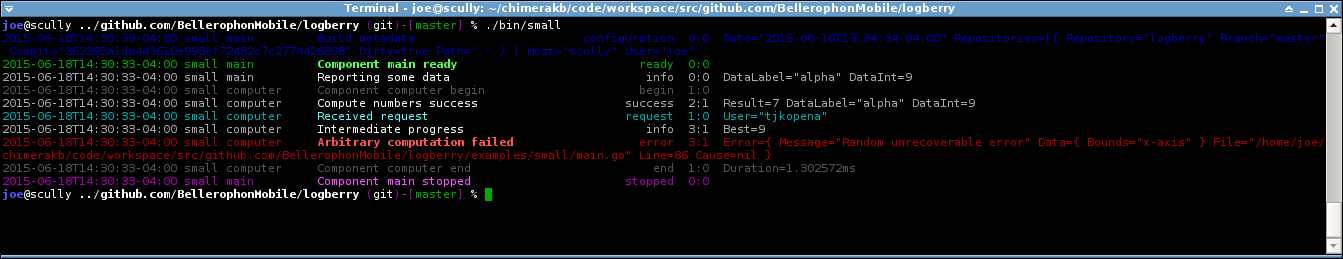
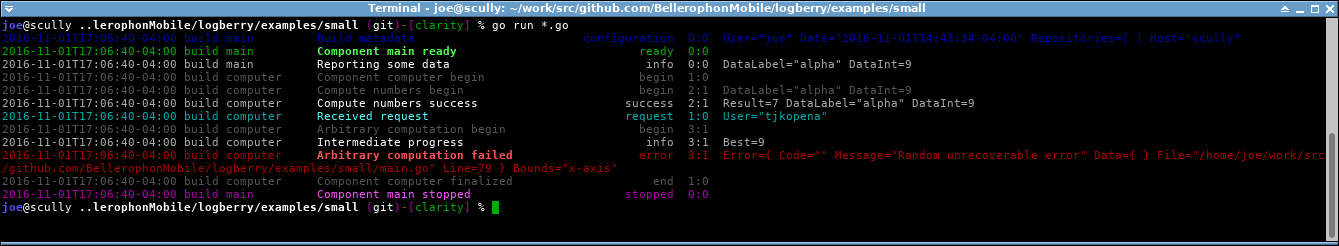
Doc update.

Changed region(s): [[0.0, 0.0, 1.0, 0.9959]]

diff --git a/examples/small/main.go b/examples/small/main.go
@@ -2,7 +2,7 @@ package main
 
 import (
 	"github.com/BellerophonMobile/logberry"
-	//	"os"
+//	"os"
 )
 
 func main() {

diff --git a/docs/concepts.md b/docs/concepts.md
@@ -2,9 +2,9 @@
 
 Logberry has four top level concepts/objects:
 
- * `Root`: An interface between Tasks and OutputDrivers.
+ * `Root`: A consolidation point between Tasks and OutputDrivers.
  * `OutputDriver`: Serializers for publishing events.
- * `Task`: A component, function, or logic that generates events.
+ * `Task`: A component, function, or logic path that generates events.
  * `D`: Data to be published with an event.
 
 Also important are two less fundamental but included concepts/objects:
@@ -17,28 +17,15 @@ Also important are two less fundamental but included concepts/objects:
 
 All logging is coordinated by a Root.  Tasks under a Root generate
 events, which are given to OutputDrivers to actually publish.
+Typically you would only have the default Root in a program.
 
-There are two kinds of Roots:
-
- * ImmediateRoot: Simply dispatches each event to registered outputs.
- * BackgroundRoot: Throws each event into a channel, which may or may
-   not be buffered.  A separate goroutine continually processes events
-   from the channel, dispatching them to registered outputs.
-
-Both serialize incoming events such that only one event is reported at
-a time, in order of first receipt.  From the user's perspective, the
-big difference is that the host program needs to call `Root::Stop()`
-on a BackgroundRoot to ensure that all generated events are output.
-Otherwise it is possible for the background goroutine to not activate
-before the program terminates, leaving events in the buffer.  However,
-that buffering and execution on a separate goroutine can be useful for
-long lived programs using OutputDrivers which may take some time,
-e.g., publishing to a remote log service.
-
-There is a default Root `logberry.Std`, which is an ImmediateRoot so
-that it intuitively outputs all events without any additional calls.
-However, programs need not make any use of this Root, instead
-generating Tasks under custom Roots as described below.
+Generated events are thown into a channel, which may or may not be
+buffered.  A separate goroutine continually processes events from the
+channel in the background, dispatching them to registered outputs.
+The host program needs to call `Root::Stop()` on a BackgroundRoot to
+ensure that all generated events are output.  Otherwise it is possible
+for the background goroutine to not activate before a short running
+program terminates, leaving events in the buffer.
 
 
 ## OutputDriver
@@ -47,7 +34,7 @@ Events are actually recorded, aggregated, or otherwise processed by
 OutputDrivers.  Applications may implement its interface and provide
 their own, but there are two included in Logberry:
 
- * TextOutput: Arguably human readable output, colorized if outputting
+ * TextOutput: Human readable output, colorized if outputting
    to a terminal.
  * JSONOutput: Machine readable JSON formatted output.
 
@@ -144,18 +131,15 @@ also have a human-oriented activity text, e.g., 'Save configuration'
 or 'Connect to database'.
 
 By default Tasks inherit the component tag of their parent and are
-given a text label specifying some focused activity.  They also do not
-log their instantiation, though the `Task::Begin()` function may be
-used to do so.  Tasks created using the Component creator though are
-assigned the given component label, presumably different from that of
-their parent Task.  Their activity text is also generated to identify
-that component, and their instantiation logged.  Termination of the
-component may then be logged using `Task::End()` in addition to the
-error reports.
+given a text label specifying some focused activity.  Tasks created
+using the Component creator though are assigned the given component
+label, presumably different from that of their parent Task.  Their
+activity text is also generated to identify that component.
+Termination of the component may then be logged using
+`Task::Finalized()` or the error reports as needed.
 
 Note, however, that these component Tasks are just regular Task
-objects that apply a few conventions when created.  Component tags and
-activity texts may also be manually set or changed for all Tasks.
+objects that apply a few conventions when created.
 
 
 ### Data
@@ -171,18 +155,12 @@ subsequent log events.  The task might then terminate on success by
 additionally reporting the number of bytes transmitted.
 
 Data to be associated with a Task may be passed to creation functions.
-The `Task::AddData(key, value)` function may also be used to assert
-data as the Task continues.  `Task::AggregateData(key, ...value)` does
-similarly in a slightly more general fashion, following the behavior
-of D objects as described below and in the [API
-GoDocs](https://godoc.org/github.com/BellerophonMobile/logberry).
+The `Task::AddData(data...)` function may also be used to assert data
+as the Task continues.
 
 Event specific data may be included in all of the reporting functions
 outlined in the following.  This data does not aggregate into the Task
 for output in subsequent calls.
-
-Several constants are defined to be used as data keys in order to
-promote common terms, but their use is completely optional.
 
 
 ### Reporting
@@ -204,49 +182,31 @@ A simple example is:
 	computerlog.Event("request", "Received request", req)
 ```
 
-Built on top of this basic function are a variety of common event
-functions:
+Built on top of this are a variety of common event triggers:
 
- * Configuration: Report on program or module initialization.
-   * `BuildMetadata`
-   * `BuildSignature`
-   * `Configuration`
-   * `CommandLine`
-   * `Environment`
-   * `Process`
  * Informational: Report generic data, human messages, or warnings.
    * `Info`
    * `Warning`
  * State: Mark the end of initialization or pause in processing.
    * `Ready`
    * `Stopped`
- * Lifetime: Report the start of components or long-running tasks, and
-   denote their termination state
-   * `Begin`
-   * `End`
+ * Lifetime: Report the termination state of components or tasks.
    * `Success`
    * `Error`
-   * `WrapError`
-   * `Fatal`
    * `Failure`
-   * `Die`
+   * `Finalized`
 
-Details on these and a full up-to-date list may be found in the [API
+There are also functions to report program or module initialization:
+
+   * `BuildMetadataEvent`
+   * `BuildSignatureEvent`
+   * `ConfigurationEvent`
+   * `CommandLineEvent`
+   * `EnvironmentEvent`
+   * `ProcessEvent`
+
+Details on all these functions may be found in the [API
 GoDocs](https://godoc.org/github.com/BellerophonMobile/logberry).
-
-
-### Utilities
-
-Task may additionally be muted (and unmuted).  In this state they will
-produce no log events.  This is useful when using a task simply to
-collect other tasks, or to generate and throw but not directly report
-a structured error message.
-
-Tasks may also be timed, and their duration reported by the
-terminating lifetime events.  To start the clock, invoke
-`Task::Time()`.  To additionally report the instationation, use
-`Task::Begin()`. Components automatically do the latter.  The current
-duration may be fetched using `Task::Clock()`.
 
 ## D
 
@@ -257,33 +217,30 @@ data to the call, which depending on the function is either associated
 to a Task or reported along with a specific event, e.g.:
 
 ```go
-// Task creates a new sub-task of the host task.  Parameter activity
-// should be a short natural language description of the work that the
-// Task represents, without any terminating punctuation.  Any data
-// given will be associated with the Task and reported with its
-// events.  This call does not produce a log event.  Use Begin to
-// indicate the start of a long running task.
+// Task creates a new sub-task.  Parameter activity should be a short
+// natural language description of the work that the Task represents,
+// without any terminating punctuation.  Any data given here will be
+// associated with the Task and reported with all its events.
 func (x *Task) Task(activity string, data ...interface{}) *Task
 
 // Error generates an error log event reporting an unrecoverable fault
-// in an activity or component.  If the Task is being timed it will be
-// clocked and the duration reported.  An error is returned wrapping
-// the original error with a message reporting that the Task's
-// activity has failed.  Continuing to use the Task will not cause an
-// error but is discouraged.  The variadic data parameter is
-// aggregated as a D and reported as data embedded in the generated
-// Task Error.  The data permanently associated with the Task is
-// reported with the event.
-func (x *Task) Error(err error, data ...interface{}) error
+// in an activity or component.  An error is returned wrapping the
+// original error with a message reporting that the Task's activity
+// has failed.  Continuing to use the Task is discouraged.  The
+// variadic data parameter is aggregated as a D and embedded in the
+// generated error.  It and the data permanently associated with the
+// Task is reported with the event.  The reported source code position
+// of the generated task error is adjusted to be the event invocation.
+func (x *Task) Error(err error, data ...interface{}) error {	
 ```
 
-D is just a standard Go map, with its real functionality is several
-functions for constructing instances from arbitrarily typed and
-variadic parameters.  In particular, it will automatically incorporate
-exposed fields of structs and keys of maps as keys of the constructed
-D.  In this way it is very easy to incorporate objects into a log
-event and have the data reported in a structured fashion.  E.g., the
-following log event will have `DataLabel` and `DataInt` fields:
+D is just a standard Go map, with its real functionality in several
+functions for copying instances from arbitrarily typed and variadic
+parameters.  In particular, it will automatically incorporate exposed
+fields of structs and keys of maps as keys of the constructed D.  In
+this way it is very easy to incorporate objects into a log event and
+have the data reported in a structured fashion.  E.g., the following
+log event will have `DataLabel` and `DataInt` fields:
 
 ```go
 	// Create some structured application data and log it
@@ -295,14 +252,6 @@ following log event will have `DataLabel` and `DataInt` fields:
 	logberry.Main.Info("Reporting some data", data)
 ```
 
-The D constructors also apply several conventions to simply reuse an
-existing D object if it is passed in as the data, and to absorb
-subsequent data into an existing D object passed at the head of a
-variadic parameter.  This supports several use cases for throwing D
-objects around without unduly cloning new objects.  Full details on
-this and the other construction rules are in the [GoDocs for the
-type](https://godoc.org/github.com/BellerophonMobile/logberry#D).
-
 Several functions to produce properly delimited but human-readable
 `key=value` text printouts of D objects are also provided.  However,
 note that as they're simply Go maps, they're trivial to throw into
@@ -311,11 +260,11 @@ JSON marshaling or other serialization.
 
 ## BuildMetadata
 
-Logberry also has a built in reporting functions and simple
+Logberry also has built in reporting functions and simple
 representation of a program's build environment, along with script
 tools to automatically construct those representations.
 
-First of these is `Task::BuildSignature()`, which takes and reports a
+First of these is `BuildSignatureEvent()`, which takes and reports a
 string as some arbitrary stamp of the binary's build profile.  The
 script `util/build-signature.sh` will automatically generate such from
 basic host device parameters and the Git repository assumed to be the
@@ -333,7 +282,7 @@ Go's linker flags, e.g.:
 go install -ldflags "-X main.buildsignature '`./util/build-signature.sh
 ```
 
-More expressively, `Task::BuildMetadata()` takes and reports a more
+More expressively, `BuildMetadataEvent()` takes and reports a more
 in-depth, structured representation of the build environment.  The
 program `util/build-metadata.go` constructs a BuildMetadata object,
 and is intended to be executed using `go run` or `go generate` to
@@ -431,7 +380,11 @@ source code location from which the event originates, and optionally
 an underlying preceding error that caused this higher level fault.
 The linked error may be a generic error, not necessarily a Logberry
 Error.  In this way the errors can capture a stacktrace of failures,
-each reporting structured data and source code location.
+each reporting structured data and source code location.  There is
+also a code string and a global convenience function to take an error
+and check if it has any of a set of code strings.  This is useful as a
+quick way to check the outcome of client code for a specific type of
+error, e.g., connection closed.
 
 
 ## Summary

diff --git a/README.md b/README.md
@@ -60,6 +60,8 @@ func main() {
 
 	logberry.Main.Failure("Arbritrary failure")
 
+  logberry.Std.Stop()
+
 }
 ```
 
@@ -92,6 +94,7 @@ package main
 
 import (
 	"github.com/BellerophonMobile/logberry"
+//	"os"
 )
 
 func main() {
@@ -99,8 +102,8 @@ func main() {
 	// Uncomment this and "os" import for JSON output
 	// logberry.Std.SetOutputDriver(logberry.NewJSONOutput(os.Stdout))
 
-	// Report build information; a script generates buildmeta
-	logberry.Main.BuildMetadata(buildmetadata)
+	// Report build information; a script generates buildmetadata
+	logberry.BuildMetadataEvent(logberry.Main, buildmetadata)
 
 	// Report that the program is initialized & running
 	logberry.Main.Ready()
@@ -138,15 +141,19 @@ func main() {
 	}
 
 	// The component ends
-	computerlog.End()
+	computerlog.Finalized()
 
 	// The program shuts down
 	logberry.Main.Stopped()
 
+	// Wait for all log messages to be output
+	logberry.Std.Stop()
+
 }
 
 func somecomputation() (int, error) {
-	return 7, nil
+	return 7, nil // errors.New("Could not compute")
+	// return 7, errors.New("Could not compute")
 }
 
 func arbitraryfunc(component *logberry.Task) error {
@@ -212,6 +219,11 @@ Links to documentation:
    
 ## Changelog
 
+ * **2016/11/01: Release 2.5** After a fair bit of use and thought, we
+     decided Logberry was still pretty solid and just needed some
+     cleanup.  So the API was trimmed down, structure consolidated to
+     a single threadsafe Root, errors made less verbose, and some
+     other fixes and tweaks made.
  * **2015/06/22: Release 2.0!** The API has been conceptually
    simplified, errors structured, and underlying code improved.
  * **2014/10/30: Release 1.0!** Though definitely not mature at all,
@@ -225,7 +237,7 @@ Logberry is provided under the open source
 
 > The MIT License (MIT)
 >
-> Copyright (c) 2014, 2015 [Bellerophon Mobile](http://bellerophonmobile.com/)
+> Copyright (c) 2014, 2015, 2016 [Bellerophon Mobile](http://bellerophonmobile.com/)
 > 
 >
 > Permission is hereby granted, free of charge, to any person
